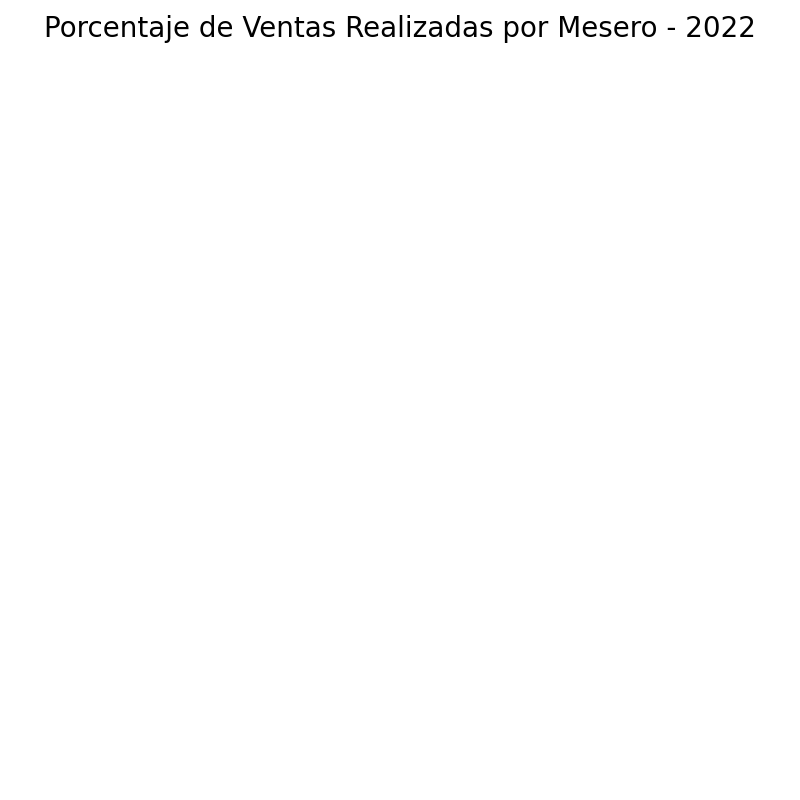
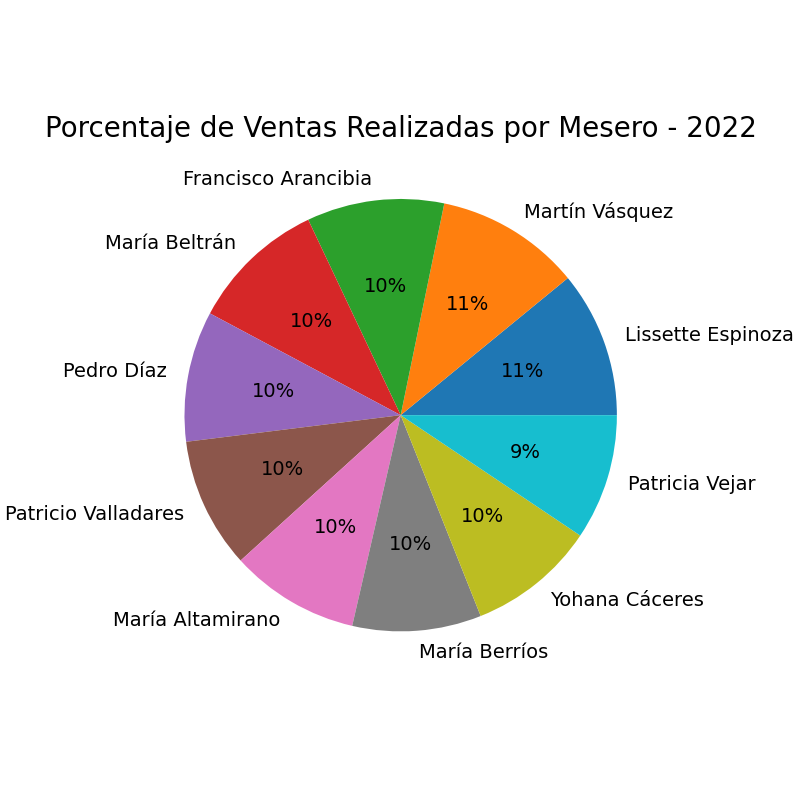
notificacion ETL

diff --git a/interfaz_transaccional/templates/base.html b/interfaz_transaccional/templates/base.html
@@ -10,6 +10,21 @@
       function showBody() { document.body.style.opacity = 1; }
       setTimeout(showBody, 500); // Fallback por si Tailwind demora en cargar
     </script>
+    <script>
+      setInterval(function() {
+          fetch('/etl_status')
+            .then(response => response.json())
+            .then(data => {
+              if (data.last_run) {
+                // Compara con el valor guardado en localStorage
+                if (localStorage.getItem('etl_last_notified') !== data.last_run) {
+                  localStorage.setItem('etl_last_notified', data.last_run);
+                  showTime('alerta');
+                }
+              }
+            });
+      }, 5000); // consulta cada 5 segundos
+    </script>
     <script src="https://cdn.tailwindcss.com" onload="showBody()"></script>
 </head>
 <body class="bg-gray-100 min-h-screen">
@@ -24,6 +39,53 @@
 {% endblock %}
 
 {% block content %}{% endblock %}
+    <div class="fixed bottom-4 right-4 z-50 flex flex-col items-end gap-y-3">
+        <!-- Notificación Alerta -->
+        <div id="alertacard" class="hidden relative transition ease-in-out delay-50 hover:-translate-y-1 hover:scale-110 duration-300">
+
+          <!-- Barra Progreso -->
+          <div id="alertabar" class="absolute top-0 left-0 w-full h-1 bg-orange-500 rounded-sm"></div>
+
+
+          <!-- Icono -->
+
+          <div class="absolute top-2 left-3 bg-orange-50 rounded-full">
+            <svg xmlns="http://www.w3.org/2000/svg" fill="none" viewBox="0 0 24 24" stroke-width="1.5"
+              stroke="currentColor" class="size-11 stroke-orange-500">
+              <path stroke-linecap="round" stroke-linejoin="round"
+                d="M12 9v3.75m9-.75a9 9 0 1 1-18 0 9 9 0 0 1 18 0Zm-9 3.75h.008v.008H12v-.008Z" />
+            </svg>
+          </div>
+
+          <!-- Contenido -->
+          <div class="h-28 w-96 bg-orange-100 rounded-md flex items-center overflow-hidden">
+
+            <!-- Burbujas -->
+            <div class="relative h-full w-20">
+              <div class="absolute size-24 -bottom-6 -left-12 rounded-full bg-orange-200"></div>
+              <div class="absolute size-16 -bottom-6 left-1 rounded-full bg-orange-300/60"></div>
+              <div class="absolute size-3 bottom-10 left-1 rounded-full bg-orange-300/80"></div>
+            </div>
+
+            <!-- Texto -->
+
+            <div>
+
+              <div class="flex items-center justify-between mb-1 ml-4">
+                <h2 class="text-xl font-semibold">Alerta</h2>
+                <button onClick="esconder('alerta')">
+                  <svg xmlns="http://www.w3.org/2000/svg" fill="none" viewBox="0 0 24 24" stroke-width="1.5"
+                    stroke="currentColor" class="size-6 stroke-orange-500 cursor-pointer mr-2">
+                    <path stroke-linecap="round" stroke-linejoin="round" d="M6 18 18 6M6 6l12 12" />
+                  </svg>
+                </button>
+              </div>
+              <p class="ml-4 mr-1">Transferencia de datos finalizada.</p>
+            </div>
+          </div>
+
+        </div>
+    </div>
 
 </body>
 <script src="{{ url_for('static', filename='js/notificacion.js') }}"></script>

diff --git a/interfaz_transaccional/main.py b/interfaz_transaccional/main.py
@@ -1,4 +1,4 @@
-from flask import Flask, render_template, request, redirect, url_for
+from flask import Flask, render_template, request, redirect, url_for, jsonify
 from datetime import datetime
 from math import ceil
 import psycopg2
@@ -7,11 +7,11 @@ from ventas import create as create_ventas, update as update_ventas, delete as d
 from ingredientes import create as create_ingredientes, update as update_ingredientes, delete as delete_ingredientes
 from carga_datos import carga_datos_bp
 from cargar_analisis import mostrar_graficos, graficos_static
-import threading
 import sys
 import os
 sys.path.append(os.path.abspath(os.path.join(os.path.dirname(__file__), '..', 'ETL')))
 import scheduler
+import threading
 
 app = Flask(__name__)
 
@@ -290,6 +290,15 @@ def limpiar_tablas():
         return redirect(url_for('index'))
     except Exception as e:
         return f"Error al limpiar tablas: {e}"
+    
+@app.route("/etl_status")
+def etl_status():
+    try:
+        with open("/tmp/etl_last_run.txt") as f:
+            last_run = f.read()
+        return jsonify({"last_run": last_run})
+    except Exception:
+        return jsonify({"last_run": None})
 
 # Reservas
 @app.route('/reserva/create', methods=['POST'])
@@ -382,6 +391,9 @@ def nombre_mes(numero):
     return nombres[int(numero)]
 
 if __name__ == "__main__":
-    scheduler_thread = threading.Thread(target=scheduler.scheduler, daemon=True)
-    scheduler_thread.start()
-    app.run(host="0.0.0.0", port=8000, debug=True)
+    # Solo inicia el scheduler si NO es el proceso de recarga de Flask
+    if os.environ.get("WERKZEUG_RUN_MAIN") == "true" or not app.debug:
+        scheduler_thread = threading.Thread(target=scheduler.scheduler, daemon=True)
+        scheduler_thread.start()
+
+    app.run(debug=True)

diff --git a/analisis.py b/analisis.py
@@ -17,22 +17,18 @@ def main():
     print(f"Generando estadísticas del año {año}")
 
     graficar_numero_ventas_por_mes(año)
-    print("> (Barras) Número de ventas por mes generado con éxito")
 
     graficar_total_ventas_por_mes(año)
-    print("> (Barras) Total ventas por mes generado con éxito")
 
     graficar_ventas_consumibles(año)
-    print("> (Lineas) Ventas por consumibles generado con éxito")
 
     graficar_uso_ingredientes(año)
-    print("> (Lineas) Uso de ingredientes generado con éxito")
 
     grafico_porcentaje_ventas_realizadas_meseros(año)
-    print("> (Torta) Ventas realizadas por mesero generado con éxito")
 
     grafico_porcentaje_total_ventas_meseros(año)
-    print("> (Torta) Montos totales de las ventas realizadas por los meseros generado con éxito")
+
+    print(f"> Gráficos para el {año} generados con éxito")
 
 
 if __name__ == "__main__":

diff --git a/ETL/scheduler.py b/ETL/scheduler.py
@@ -1,17 +1,22 @@
 import schedule
 import time
+from datetime import datetime
 from transferir_datos import *
 import subprocess
 import sys
 import os
 
 def job():
+    print("Iniciando ETL...")
     vaciar_tablas()
     transferir_datos()
     años = ["2022", "2023", "2024", "2025"]
     ruta_analisis = os.path.abspath(os.path.join(os.path.dirname(__file__), '..', 'analisis.py'))
     for año in años:
         subprocess.run([sys.executable, ruta_analisis, año])
+    with open("/tmp/etl_last_run.txt", "w") as f:
+        f.write(datetime.now().isoformat())
+    print("ETL completado.")
 
 def scheduler():
     schedule.every(1).minutes.do(job)
